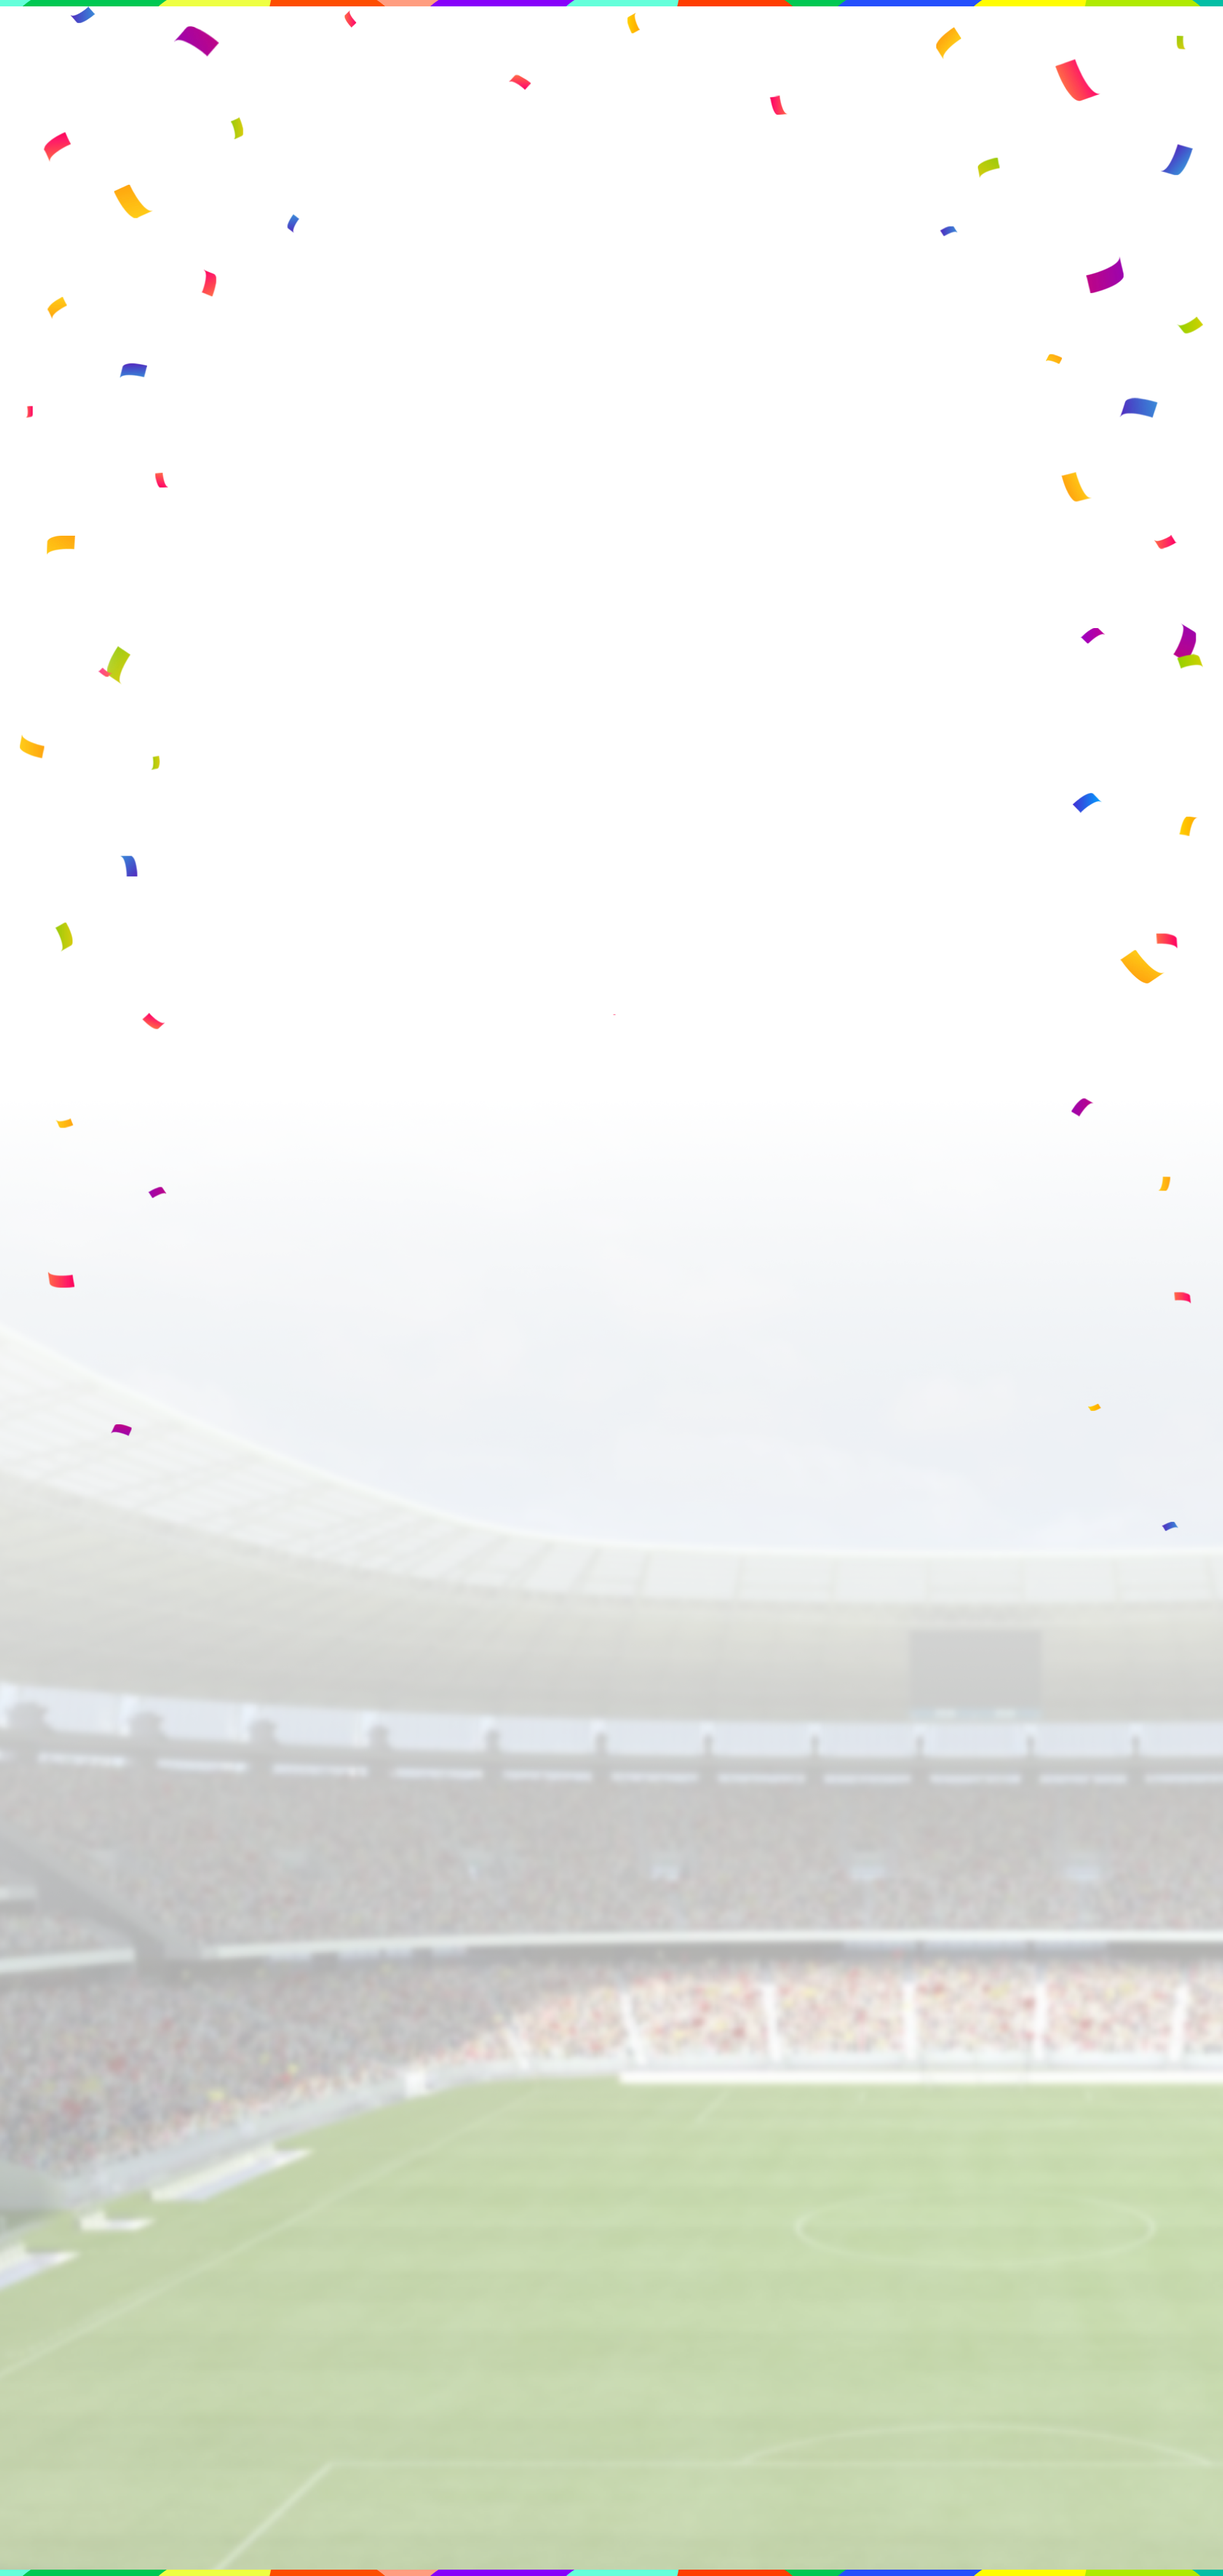
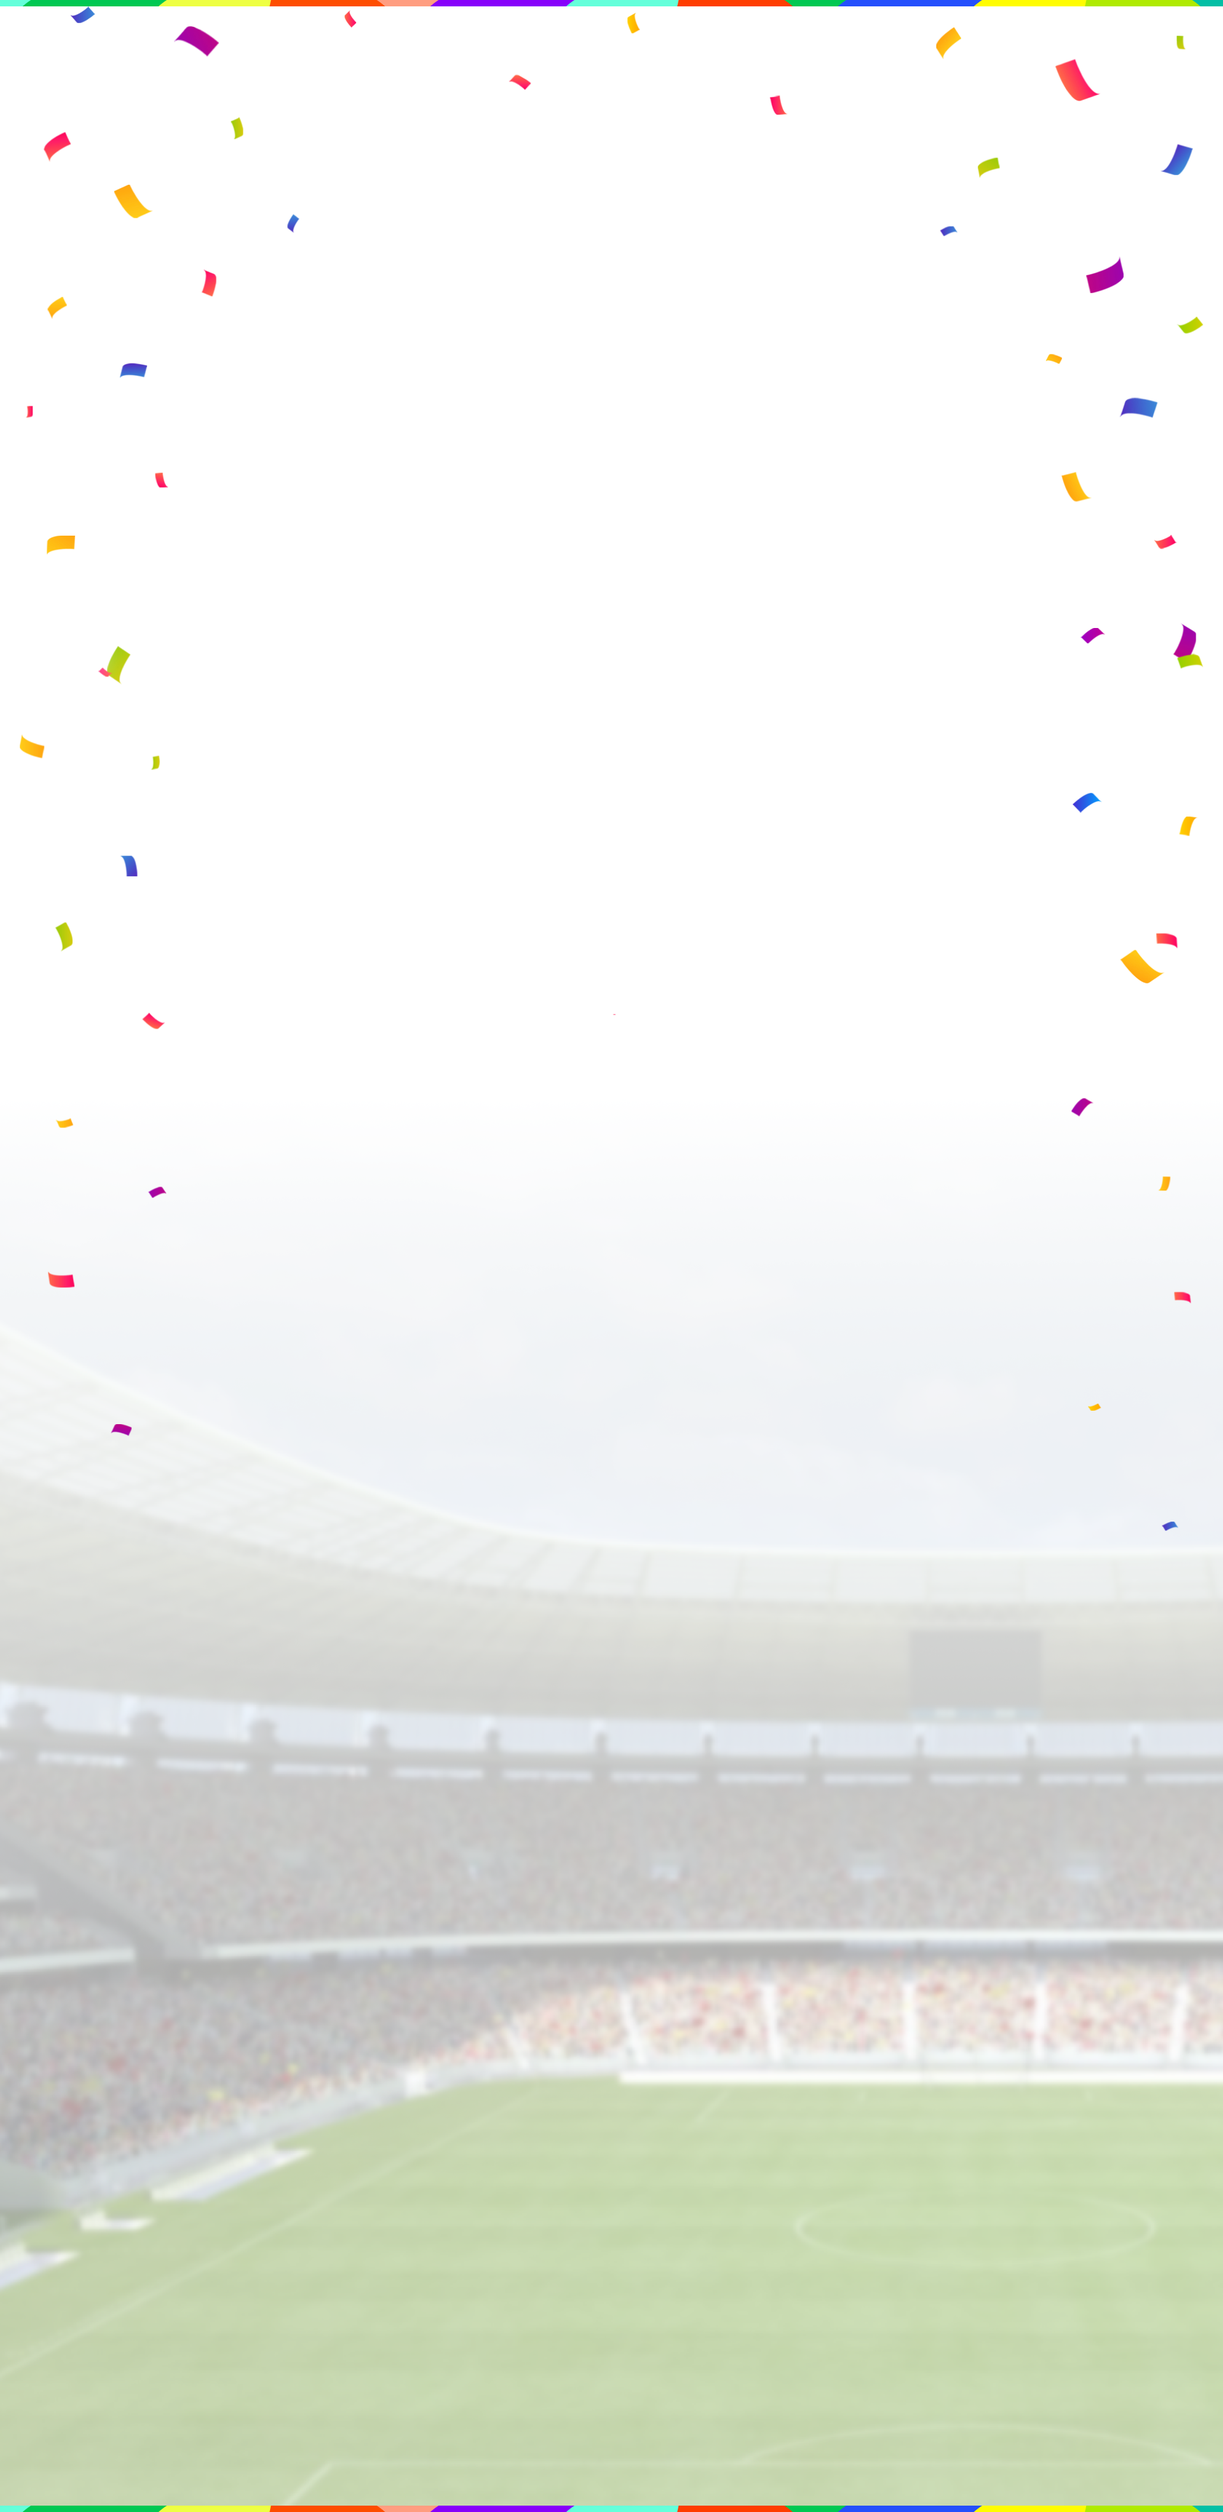
fix: [FIFA] QA 반영

diff --git a/product/pdp_display_theme_fifa.html b/product/pdp_display_theme_fifa.html
@@ -549,7 +549,7 @@
               <picture>
                 <!-- 화면 너비가 768px 이하일 때 사용할 모바일용 이미지 -->
                 <source
-                  media="(max-width: 768px)"
+                  media="(max-width: 769px)"
                   srcset="../assets/images/kia/pdp/fifa/details/mo_hero_theme01.png"
                 />
                 <!-- 기본 이미지 -->
@@ -579,7 +579,7 @@
             <div class="swiper-slide kv-slide" data-theme="02">
               <picture>
                 <source
-                  media="(max-width: 768px)"
+                  media="(max-width: 769px)"
                   srcset="../assets/images/pdp/fifa/details/mo_hero_theme02.png"
                 />
                 <img
@@ -607,7 +607,7 @@
             <div class="swiper-slide kv-slide" data-theme="03">
               <picture>
                 <source
-                  media="(max-width: 768px)"
+                  media="(max-width: 769px)"
                   srcset="../assets/images/pdp/fifa/details/mo_hero_theme03.png"
                 />
                 <img
@@ -635,7 +635,7 @@
             <div class="swiper-slide kv-slide" data-theme="04">
               <picture>
                 <source
-                  media="(max-width: 768px)"
+                  media="(max-width: 769px)"
                   srcset="../assets/images/pdp/fifa/details/mo_hero_theme04.png"
                 />
                 <img
@@ -663,7 +663,7 @@
             <div class="swiper-slide kv-slide" data-theme="05">
               <picture>
                 <source
-                  media="(max-width: 768px)"
+                  media="(max-width: 769px)"
                   srcset="../assets/images/pdp/fifa/details/mo_hero_theme05.png"
                 />
                 <img
@@ -719,7 +719,7 @@
             <li class="card" data-theme="01">
               <picture class="card-layer layer-inactive">
                 <source
-                  media="(max-width: 768px)"
+                  media="(max-width: 769px)"
                   srcset="
                     ../assets/images/kia/pdp/fifa/details/mo_sec02_theme01_dis.png
                   "
@@ -731,7 +731,7 @@
               </picture>
               <picture class="card-layer layer-active">
                 <source
-                  media="(max-width: 768px)"
+                  media="(max-width: 769px)"
                   srcset="
                     ../assets/images/kia/pdp/fifa/details/mo_sec02_theme01_sel.png
                   "
@@ -752,7 +752,7 @@
             <li class="card" data-theme="02">
               <picture class="card-layer layer-inactive">
                 <source
-                  media="(max-width: 768px)"
+                  media="(max-width: 769px)"
                   srcset="
                     ../assets/images/kia/pdp/fifa/details/mo_sec02_theme02_dis.png
                   "
@@ -764,7 +764,7 @@
               </picture>
               <picture class="card-layer layer-active">
                 <source
-                  media="(max-width: 768px)"
+                  media="(max-width: 769px)"
                   srcset="
                     ../assets/images/kia/pdp/fifa/details/mo_sec02_theme02_sel.png
                   "
@@ -785,7 +785,7 @@
             <li class="card" data-theme="03">
               <picture class="card-layer layer-inactive">
                 <source
-                  media="(max-width: 768px)"
+                  media="(max-width: 769px)"
                   srcset="
                     ../assets/images/kia/pdp/fifa/details/mo_sec02_theme03_dis.png
                   "
@@ -797,7 +797,7 @@
               </picture>
               <picture class="card-layer layer-active">
                 <source
-                  media="(max-width: 768px)"
+                  media="(max-width: 769px)"
                   srcset="
                     ../assets/images/kia/pdp/fifa/details/mo_sec02_theme03_sel.png
                   "
@@ -818,7 +818,7 @@
             <li class="card" data-theme="04">
               <picture class="card-layer layer-inactive">
                 <source
-                  media="(max-width: 768px)"
+                  media="(max-width: 769px)"
                   srcset="
                     ../assets/images/kia/pdp/fifa/details/mo_sec02_theme04_dis.png
                   "
@@ -830,7 +830,7 @@
               </picture>
               <picture class="card-layer layer-active">
                 <source
-                  media="(max-width: 768px)"
+                  media="(max-width: 769px)"
                   srcset="
                     ../assets/images/kia/pdp/fifa/details/mo_sec02_theme04_sel.png
                   "
@@ -848,7 +848,7 @@
             <li class="card" data-theme="05">
               <picture class="card-layer layer-inactive">
                 <source
-                  media="(max-width: 768px)"
+                  media="(max-width: 769px)"
                   srcset="
                     ../assets/images/kia/pdp/fifa/details/mo_sec02_theme05_dis.png
                   "
@@ -860,7 +860,7 @@
               </picture>
               <picture class="card-layer layer-active">
                 <source
-                  media="(max-width: 768px)"
+                  media="(max-width: 769px)"
                   srcset="
                     ../assets/images/kia/pdp/fifa/details/mo_sec02_theme05_sel.png
                   "
@@ -881,7 +881,7 @@
             <li class="card pick">
               <picture class="card-layer">
                 <source
-                  media="(max-width: 768px)"
+                  media="(max-width: 769px)"
                   srcset="
                     ../assets/images/kia/pdp/fifa/details/mo_sec02_theme06_nor.png
                   "
@@ -923,7 +923,7 @@
               <div class="xfade-item banner-item" data-theme="01">
                 <picture class="banner-img">
                   <source
-                    media="(max-width: 768px)"
+                    media="(max-width: 769px)"
                     srcset="
                       ../assets/images/kia/pdp/fifa/details/Banner_Global-mo.png
                     "
@@ -968,7 +968,7 @@
               <div class="xfade-item banner-item" data-theme="02">
                 <picture>
                   <source
-                    media="(max-width: 768px)"
+                    media="(max-width: 769px)"
                     srcset="
                       ../assets/images/kia/pdp/fifa/details/Banner_Canada-mo.png
                     "
@@ -1017,7 +1017,7 @@
               <div class="xfade-item banner-item" data-theme="03">
                 <picture>
                   <source
-                    media="(max-width: 768px)"
+                    media="(max-width: 769px)"
                     srcset="
                       ../assets/images/kia/pdp/fifa/details/Banner_Mexico-mo.png
                     "
@@ -1067,7 +1067,7 @@
               <div class="xfade-item banner-item" data-theme="04">
                 <picture>
                   <source
-                    media="(max-width: 768px)"
+                    media="(max-width: 769px)"
                     srcset="../assets/images/kia/pdp/fifa/details/Banner_USA-mo.png"
                   />
                   <img
@@ -1112,7 +1112,7 @@
               <div class="xfade-item banner-item" data-theme="05">
                 <picture>
                   <source
-                    media="(max-width: 768px)"
+                    media="(max-width: 769px)"
                     srcset="
                       ../assets/images/kia/pdp/fifa/details/Banner_Korea-mo.png
                     "

diff --git a/assets/css/pdp/fifa/themes.css b/assets/css/pdp/fifa/themes.css
@@ -203,7 +203,7 @@ section.themes .themes-header {
 }
 
 /* 체크 뱃지 */
-.themes-cards-grid[data-clickable='true'] .card::after {
+.themes-cards-grid .card::after {
   content: '';
   position: absolute;
   top: 5%;
@@ -285,14 +285,22 @@ section.themes .themes-header {
   }
   .card .card-contents h3 {
     text-align: center;
-    font-size: clamp(12px, 2.6cqw, 20px);
+    font-size: clamp(14px, 2.6cqw, 20px);
   }
   .card .card-contents p {
     text-align: center;
     font-size: clamp(10px, 2.0cqw, 16px);
+    line-height: 1.4;
   }
   .card.pick .card-contents {
     gap: 8%;
+  }
+
+  .themes-cards-grid .card::after {
+    width: 14px;
+    height: 14px;
+    top: 5.5%;
+    right: 7%;
   }
 }
 

diff --git a/assets/css/pdp/fifa/playful.css b/assets/css/pdp/fifa/playful.css
@@ -343,6 +343,10 @@ section.playful.playful-content {
     margin-top: 16px;
     font-size: 14px;
   }
+  .playful-content-item > p.warning {
+    margin-top: 2px;
+    font-size: 10px;
+  }
 }
 
 @media screen and (max-width: 769px) {
